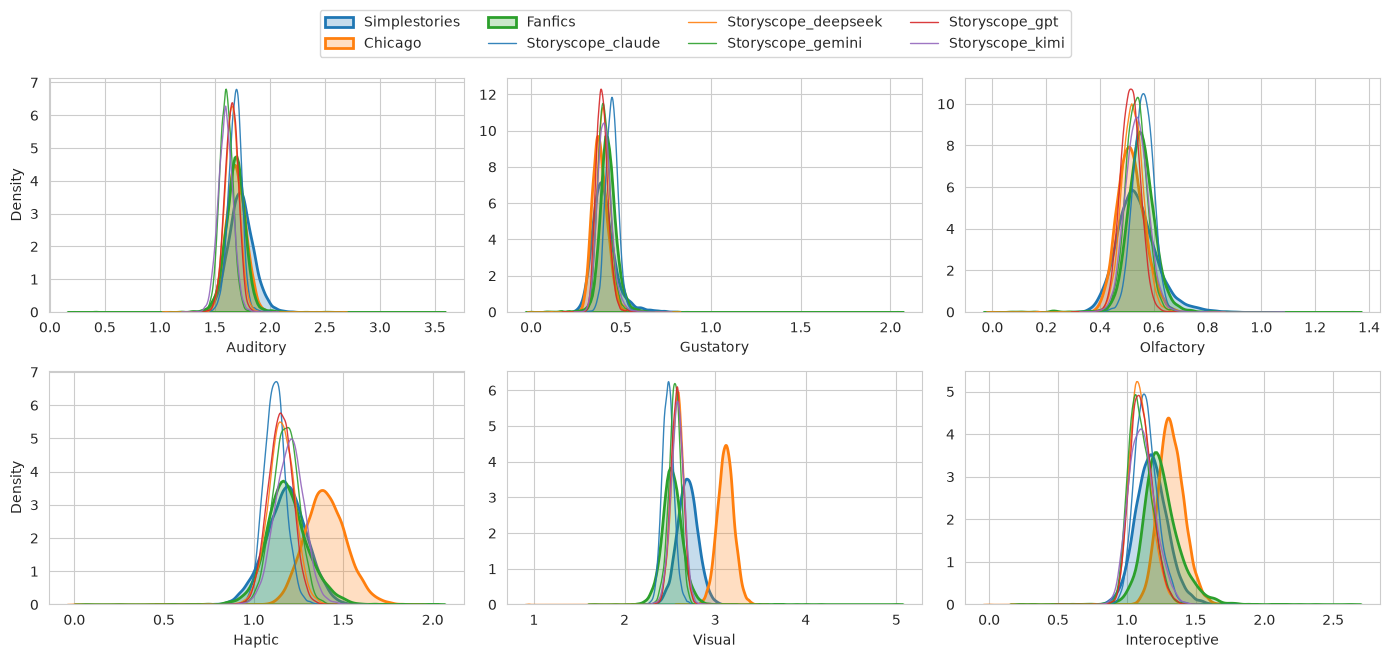
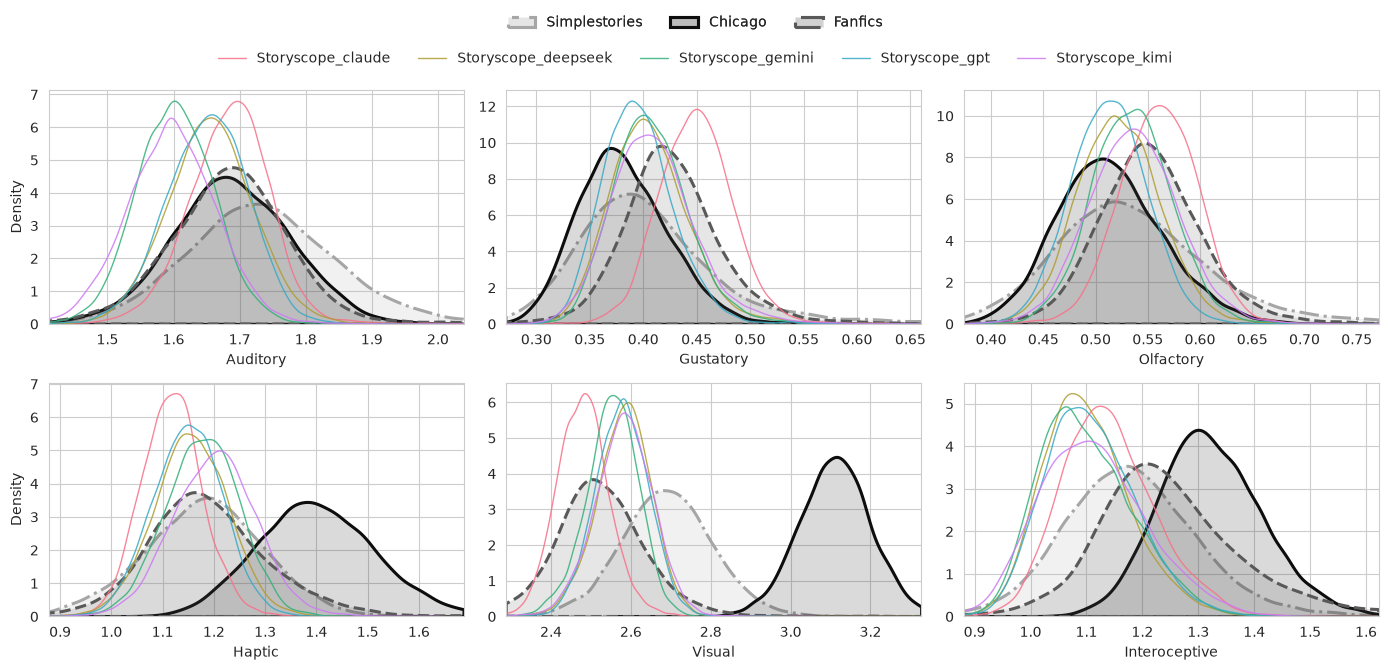
png

diff --git a/notebooks/check.py b/notebooks/check.py
@@ -176,28 +176,74 @@ axes = axes.flatten()
 
 emphasize = {"chicago", "fanfics", "simplestories"}
 
+main_styles = {
+    "chicago":       {"color": "0.05", "linestyle": "-"},
+    "fanfics":       {"color": "0.35", "linestyle": "--"},
+    "simplestories": {"color": "0.65", "linestyle": "-."},
+}
+
+storyscope_names = [name for name in datasets if name.startswith("storyscope_")]
+storyscope_palette = sns.color_palette("husl", len(storyscope_names))
+storyscope_colors = dict(zip(storyscope_names, storyscope_palette))
+
+# keep track of handles/labels separately for main vs. storyscope, in plotting order
+main_handles, main_labels = [], []
+storyscope_handles, storyscope_labels = [], []
+
 for i, sense in enumerate(senses):
     ax = axes[i]
+    col = f'{use_what}{sense}.mean'
+
+    pooled_vals = pd.concat([df[col] for df in datasets.values()])
+    lo, hi = pooled_vals.quantile([0.002, 0.998])  # loosened from 0.005/0.995
+
     for name, df in datasets.items():
-        is_main = name in emphasize
-        sns.kdeplot(
-            data=df, x=f'{use_what}{sense}.mean', label=name.capitalize(),
-            fill=is_main, alpha=0.25 if is_main else 0.9,
-            linewidth=2 if is_main else 1,
-            ax=ax
-        )
+        if name in emphasize:
+            style = main_styles[name]
+            line = sns.kdeplot(
+                data=df, x=col, label=name.capitalize(),
+                fill=True, alpha=0.15,
+                color=style["color"], linestyle=style["linestyle"],
+                linewidth=2.2,
+                ax=ax, clip=(lo, hi),
+            )
+        else:
+            line = sns.kdeplot(
+                data=df, x=col, label=name.capitalize(),
+                fill=False, alpha=0.85,
+                color=storyscope_colors[name],
+                linewidth=1,
+                ax=ax, clip=(lo, hi),
+            )
+
+    ax.set_xlim(lo, hi)
     ax.set_xlabel(sense.capitalize())
     ax.set_ylabel('Density' if i % 3 == 0 else '')
 
-handles, labels = axes[0].get_legend_handles_labels()
+    # grab handles/labels only once, from the first subplot
+    if i == 0:
+        all_handles, all_labels = ax.get_legend_handles_labels()
+        for h, l in zip(all_handles, all_labels):
+            if l.lower() in emphasize:
+                main_handles.append(h)
+                main_labels.append(l)
+            else:
+                storyscope_handles.append(h)
+                storyscope_labels.append(l)
+
 for ax in axes:
     if ax.get_legend(): ax.get_legend().remove()
-fig.legend(handles, labels, loc='upper center', bbox_to_anchor=(0.5, 1.1), ncol=4)
+
+# two explicit legend rows: main categories on top, Storyscope models below
+leg1 = fig.legend(main_handles, main_labels, loc='upper center',
+                   bbox_to_anchor=(0.5, 1.12), ncol=len(main_handles), frameon=False)
+fig.add_artist(leg1)
+fig.legend(storyscope_handles, storyscope_labels, loc='upper center',
+           bbox_to_anchor=(0.5, 1.06), ncol=len(storyscope_handles), frameon=False)
 
 plt.tight_layout()
 plt.savefig(FIGS / f"{ts}_sense_score_distributions_based_on_{use_what}.png", bbox_inches='tight')
 plt.show()
-
 
 # %%
 
